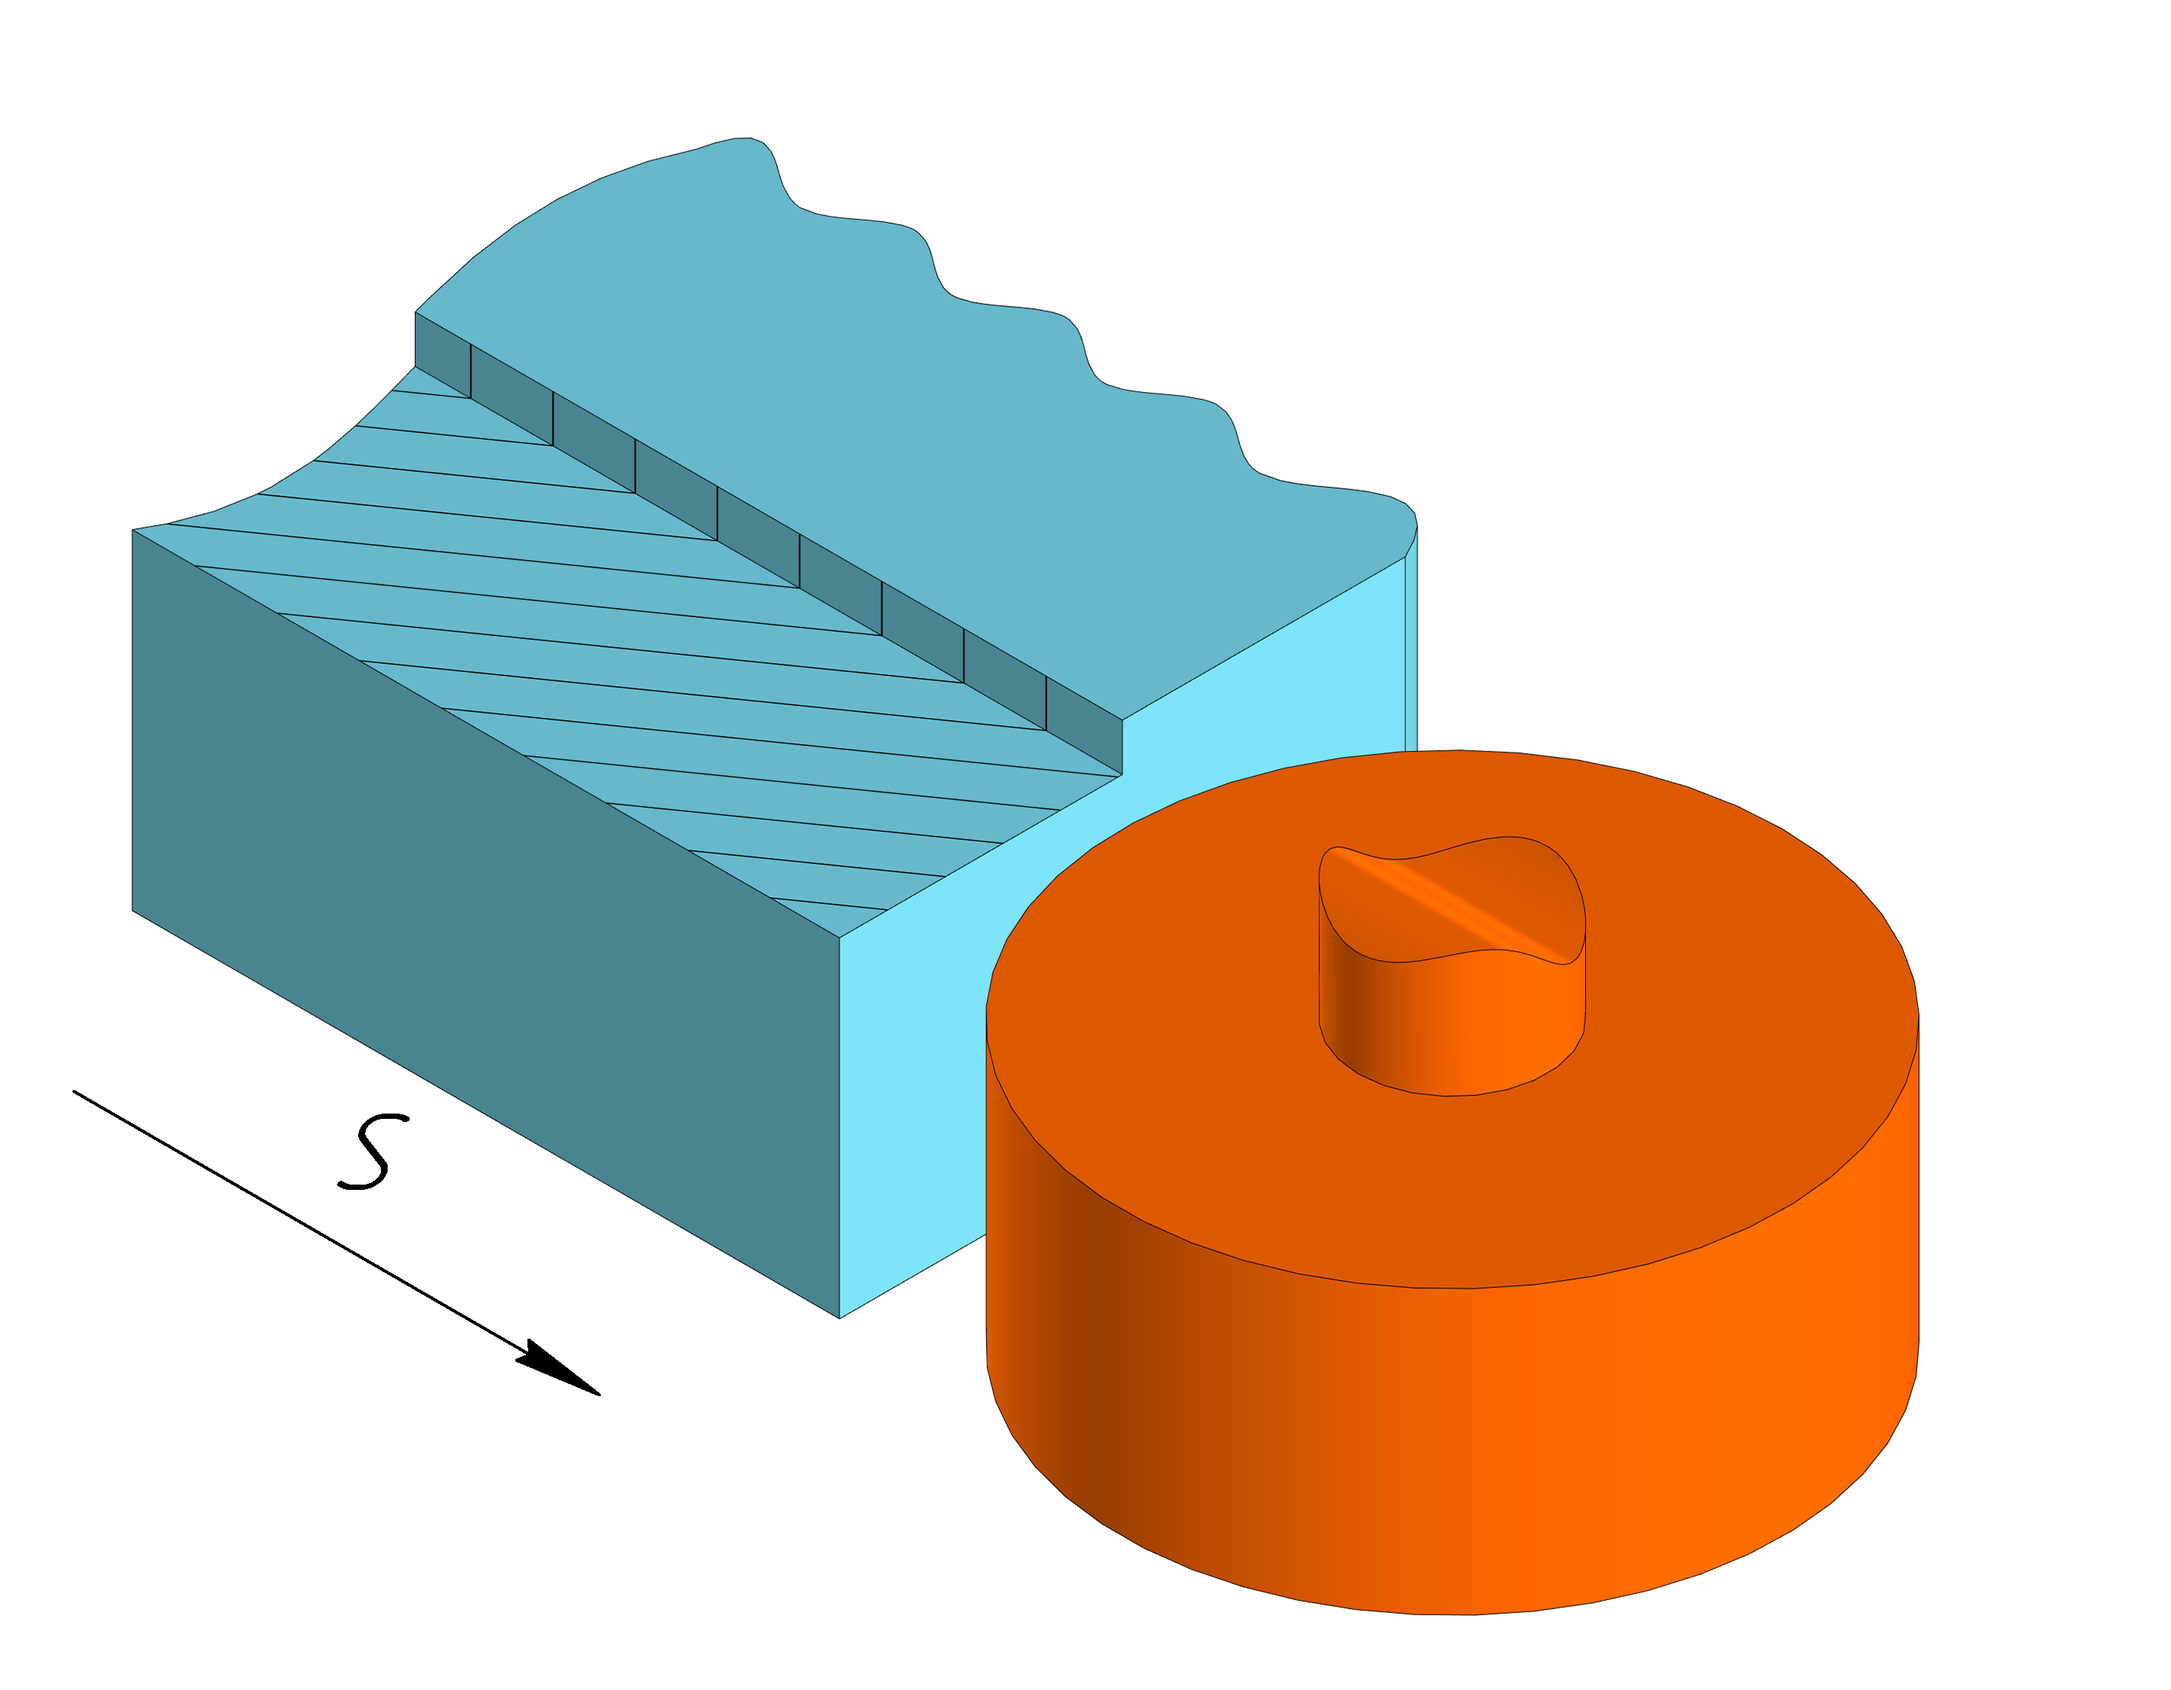
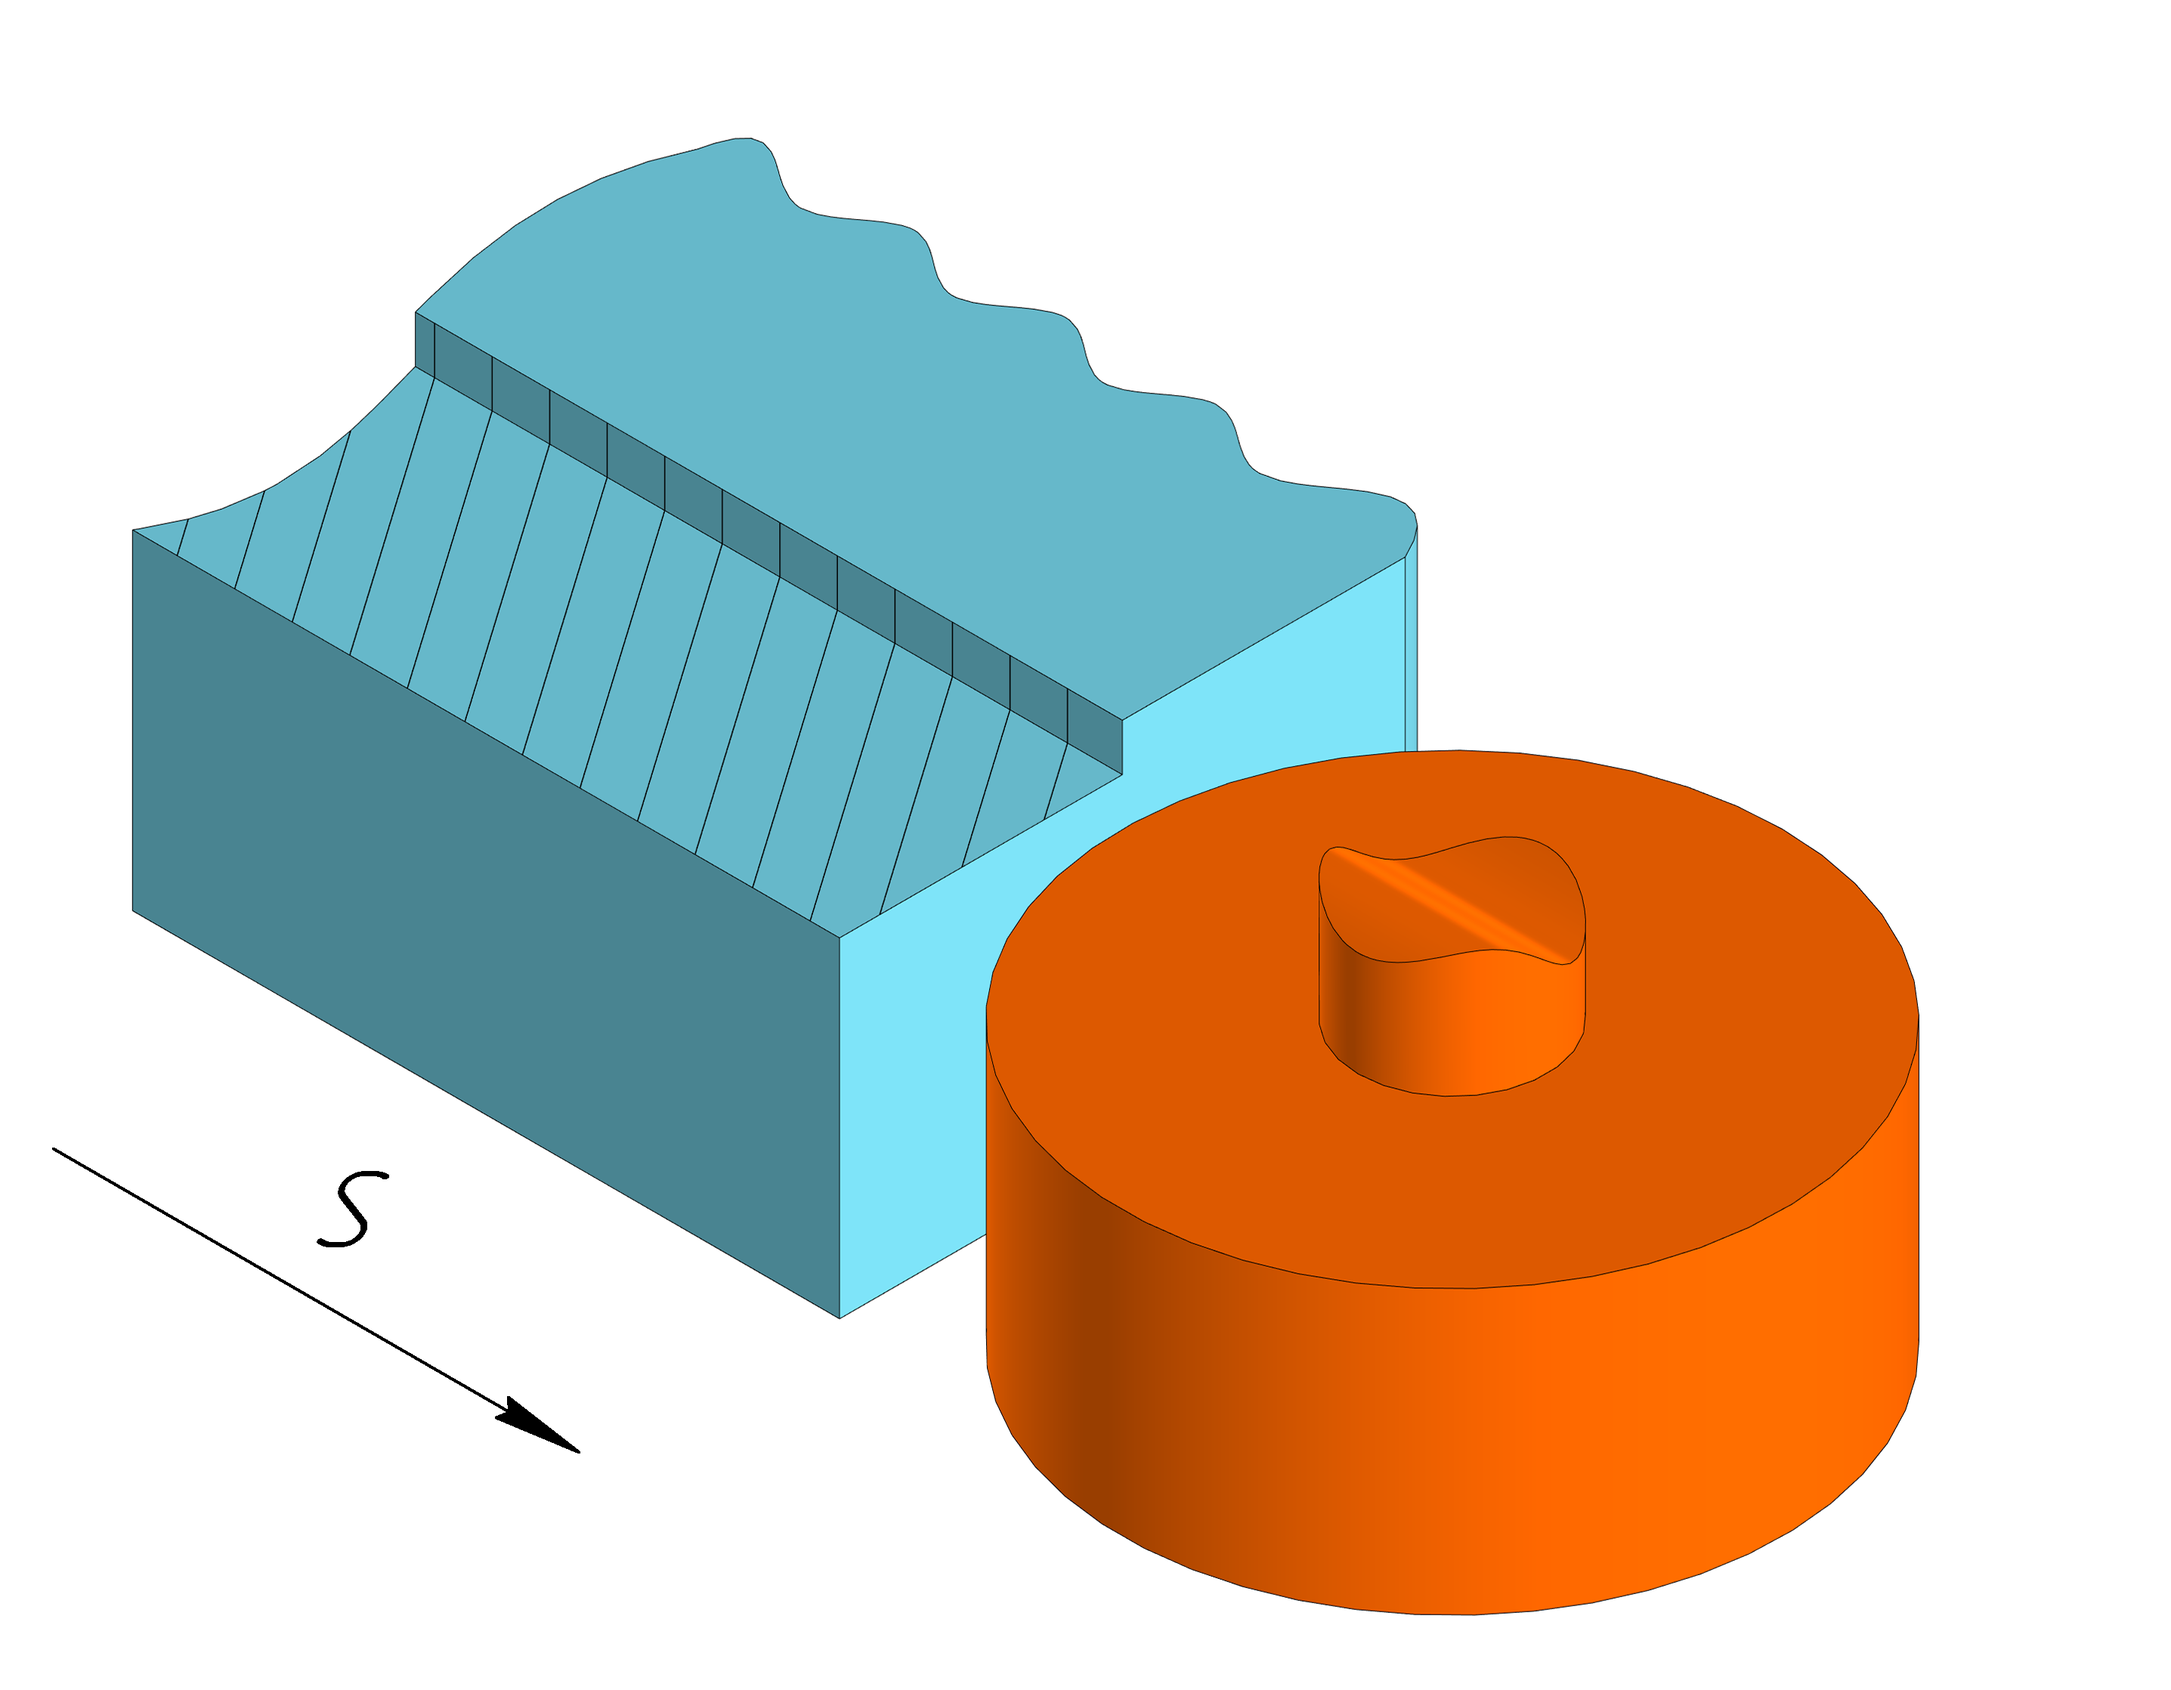
add new img and fix style

diff --git a/script/script.js b/script/script.js
@@ -232,51 +232,45 @@ function createPageVrezka() {
     addNewBlock.innerHTML = `
         <article id="1" class="vrezka">
             <div class="textInArticle text">
-                Диаметр фрезы больше ширины обрабатываемой поверхности.
+                Диаметр фрезы больше ширины обрабатываемой поверхности
             </div>
             <img class="imgToolPenetration" src="img/schemes/schem1.png" alt="imgToolPenetration"/>
         </article>
         <article id="2" class="vrezka">
             <div class="textInArticle text">
-                Фреза обрабатывает уступ.
+                Фреза обрабатывает уступ
             </div>
             <img class="imgToolPenetration" src="img/schemes/schem2.png" alt="imgTypeVrezanija"/>
         </article>
         <article id="3" class="vrezka">
             <div class="textInArticle text">
-                Врезение осуществеляется в металл под действием магии! Проверка на то что будет если тут будет много
-                букафакаг! Или очень много букаф. В как они перекроют блок! Врезение осуществеляется в металл под
-                действием магии! Проверка на то что будет если тут будет много букафакаг! Или очень много букаф.
+                Обработка паза (шлица)
             </div>
-            <img class="imgToolPenetration" src="img/noImg.jpg" alt="imgTypeVrezanija"/>
+            <img class="imgToolPenetration" src="img/schemes/schem3.png" alt="imgTypeVrezanija"/>
         </article>
         <article id="4" class="vrezka">
             <div class="textInArticle text">
-                Врезение осуществеляется в металл под действием магии!
+                Обработка паза с врезанием в поверхность под углом
             </div>
-            <img class="imgToolPenetration" src="img/noImg.jpg" alt="imgToolPenetration"/>
+            <img class="imgToolPenetration" src="img/schemes/schem4.png" alt="imgToolPenetration"/>
         </article>
         <article id="5" class="vrezka">
             <div class="textInArticle text">
-                Врезение осуществеляется в металл под действием магии!
+                Диаметр фрезы больше ширины обрабатываемой поверхности
             </div>
-            <img class="imgToolPenetration" src="img/noImg.jpg" alt="imgTypeVrezanija"/>
+            <img class="imgToolPenetration" src="img/schemes/schem5.png" alt="imgTypeVrezanija"/>
         </article>
         <article id="6" class="vrezka">
             <div class="textInArticle text">
-                Врезение осуществеляется в металл под действием магии! Проверка на то что будет если тут будет много
-                букафакаг! Или очень много букаф. В как они перекроют блок! Врезение осуществеляется в металл под
-                действием магии! Проверка на то что будет если тут будет много букафакаг! Или очень много букаф.
+                Обработка паза, врезание по центру скругления заготовки
             </div>
-            <img class="imgToolPenetration" src="img/noImg.jpg" alt="imgTypeVrezanija"/>
+            <img class="imgToolPenetration" src="img/schemes/schem6.png" alt="imgTypeVrezanija"/>
         </article>
         <article id="6" class="vrezka">
             <div class="textInArticle text">
-                Врезение осуществеляется в металл под действием магии! Проверка на то что будет если тут будет много
-                букафакаг! Или очень много букаф. В как они перекроют блок! Врезение осуществеляется в металл под
-                действием магии! Проверка на то что будет если тут будет много букафакаг! Или очень много букаф.
+                Обработка паза, врезание со смещением относительно скругления заготовки
             </div>
-            <img class="imgToolPenetration" src="img/noImg.jpg" alt="imgTypeVrezanija"/>
+            <img class="imgToolPenetration" src="img/schemes/schem7.png" alt="imgTypeVrezanija"/>
         </article>
         <article id="7" class="vrezka">
             <div class="textInArticle text">

diff --git a/style/style.css b/style/style.css
@@ -62,7 +62,7 @@ nav ul {
     transition: .3s;
 }
 .navPage::before{
-    content: "> ";
+    /*content: "> ";*/
 }
 .navPage:hover{
     background-color: var(--color-shadow);
